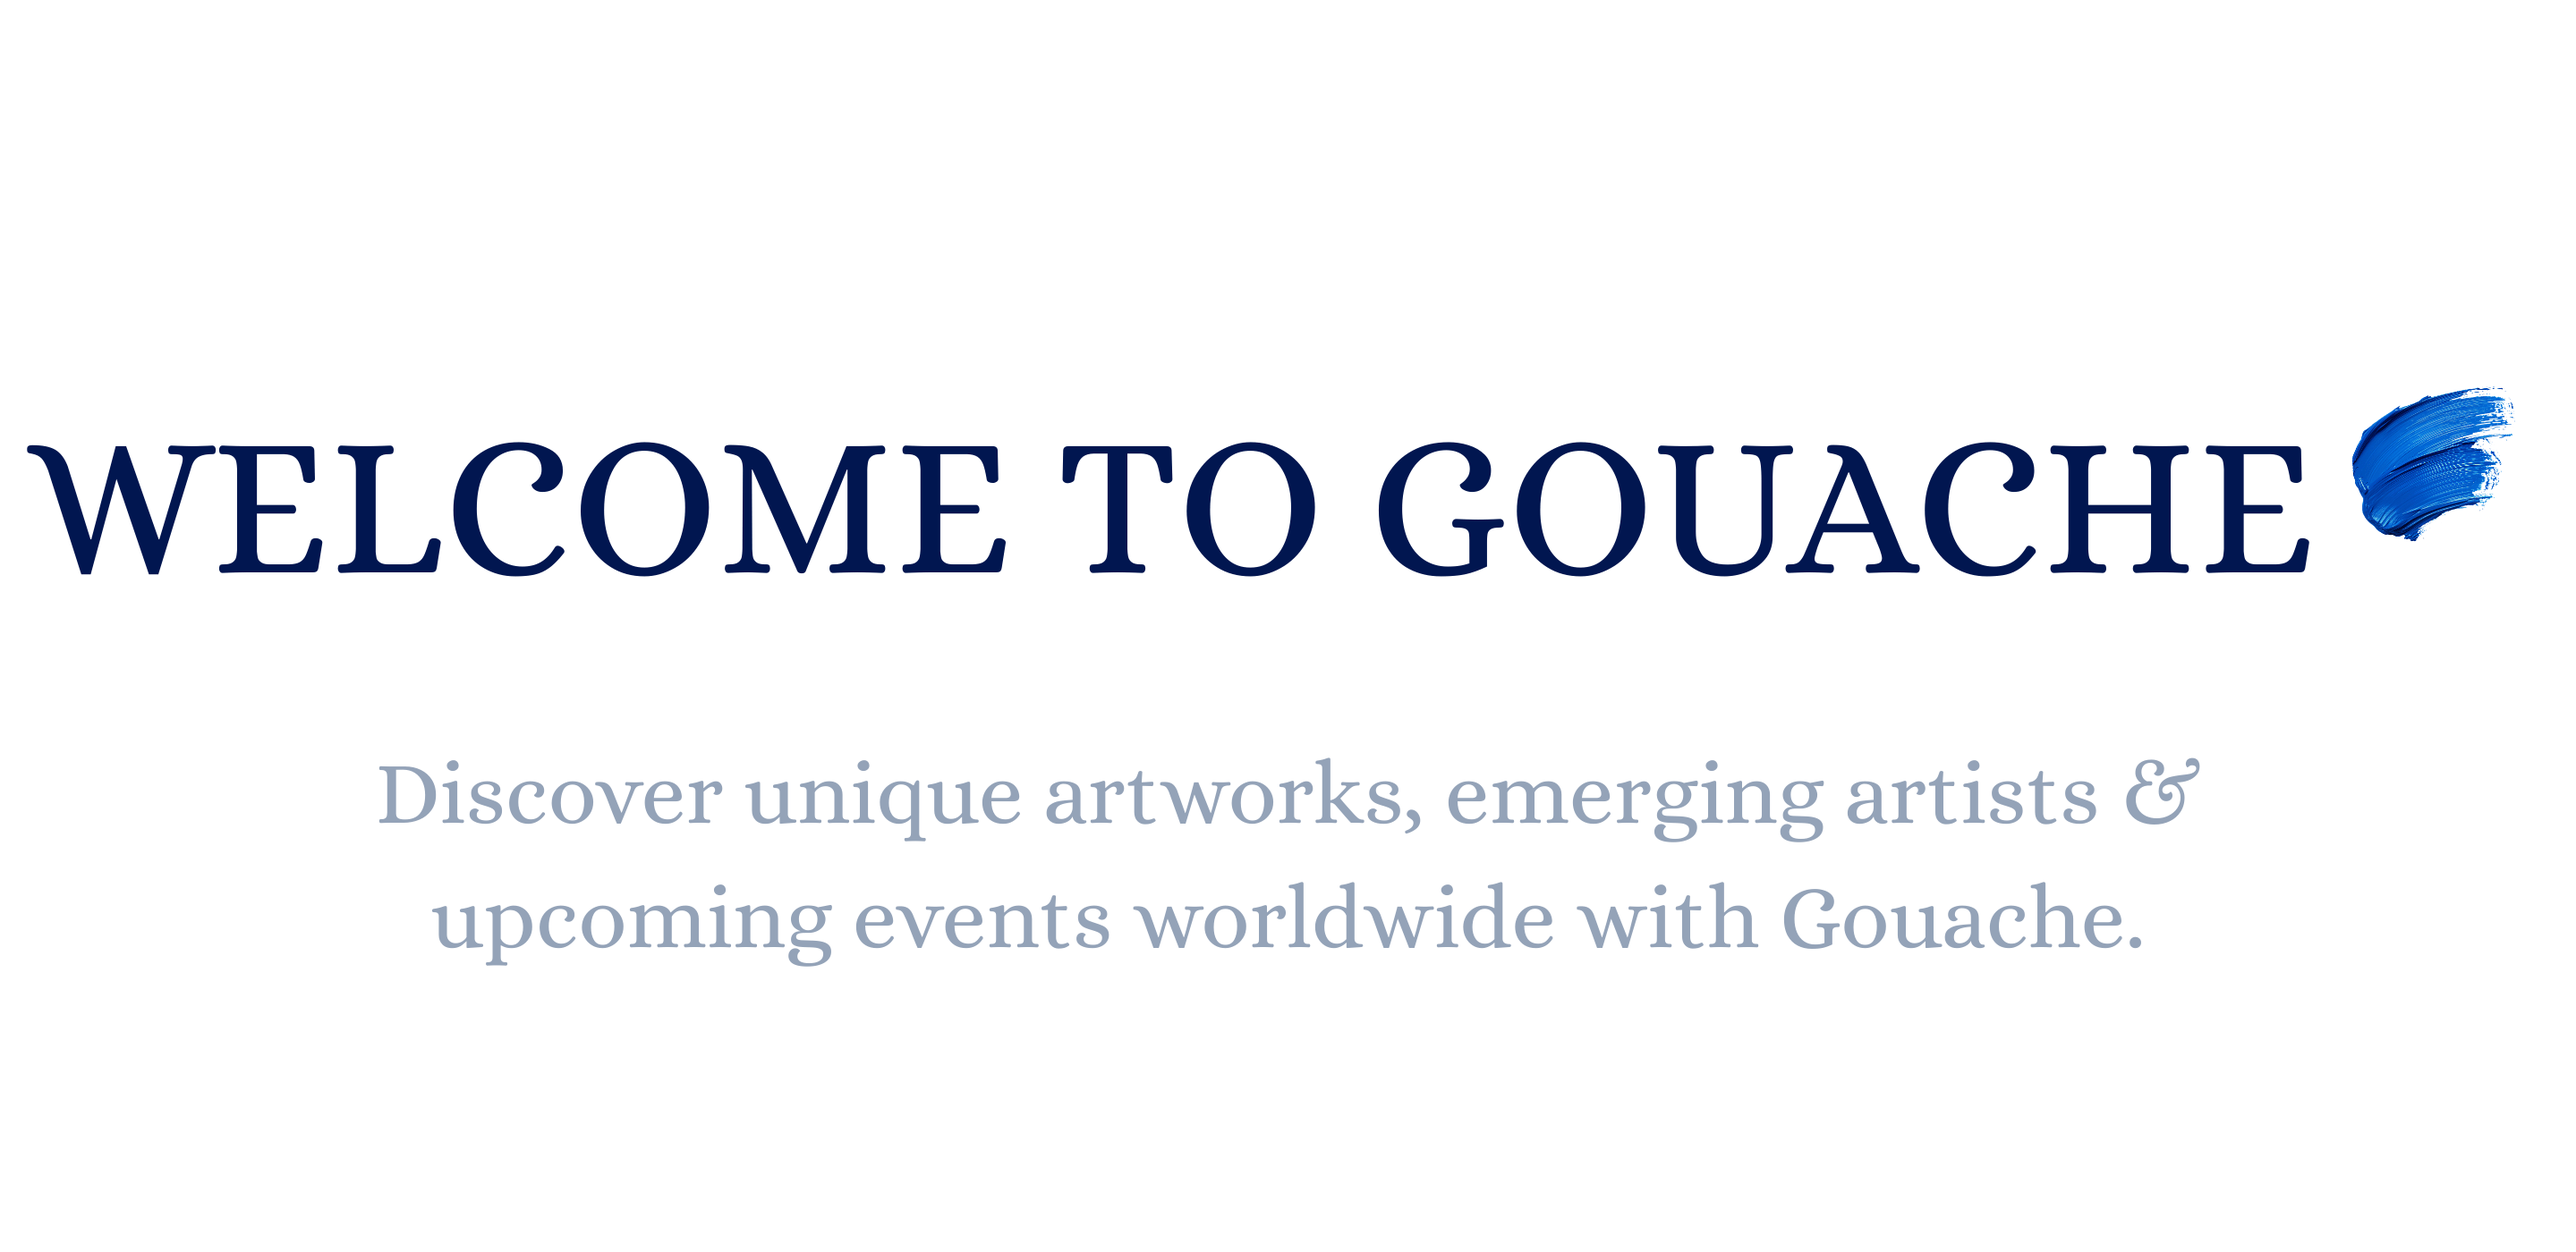
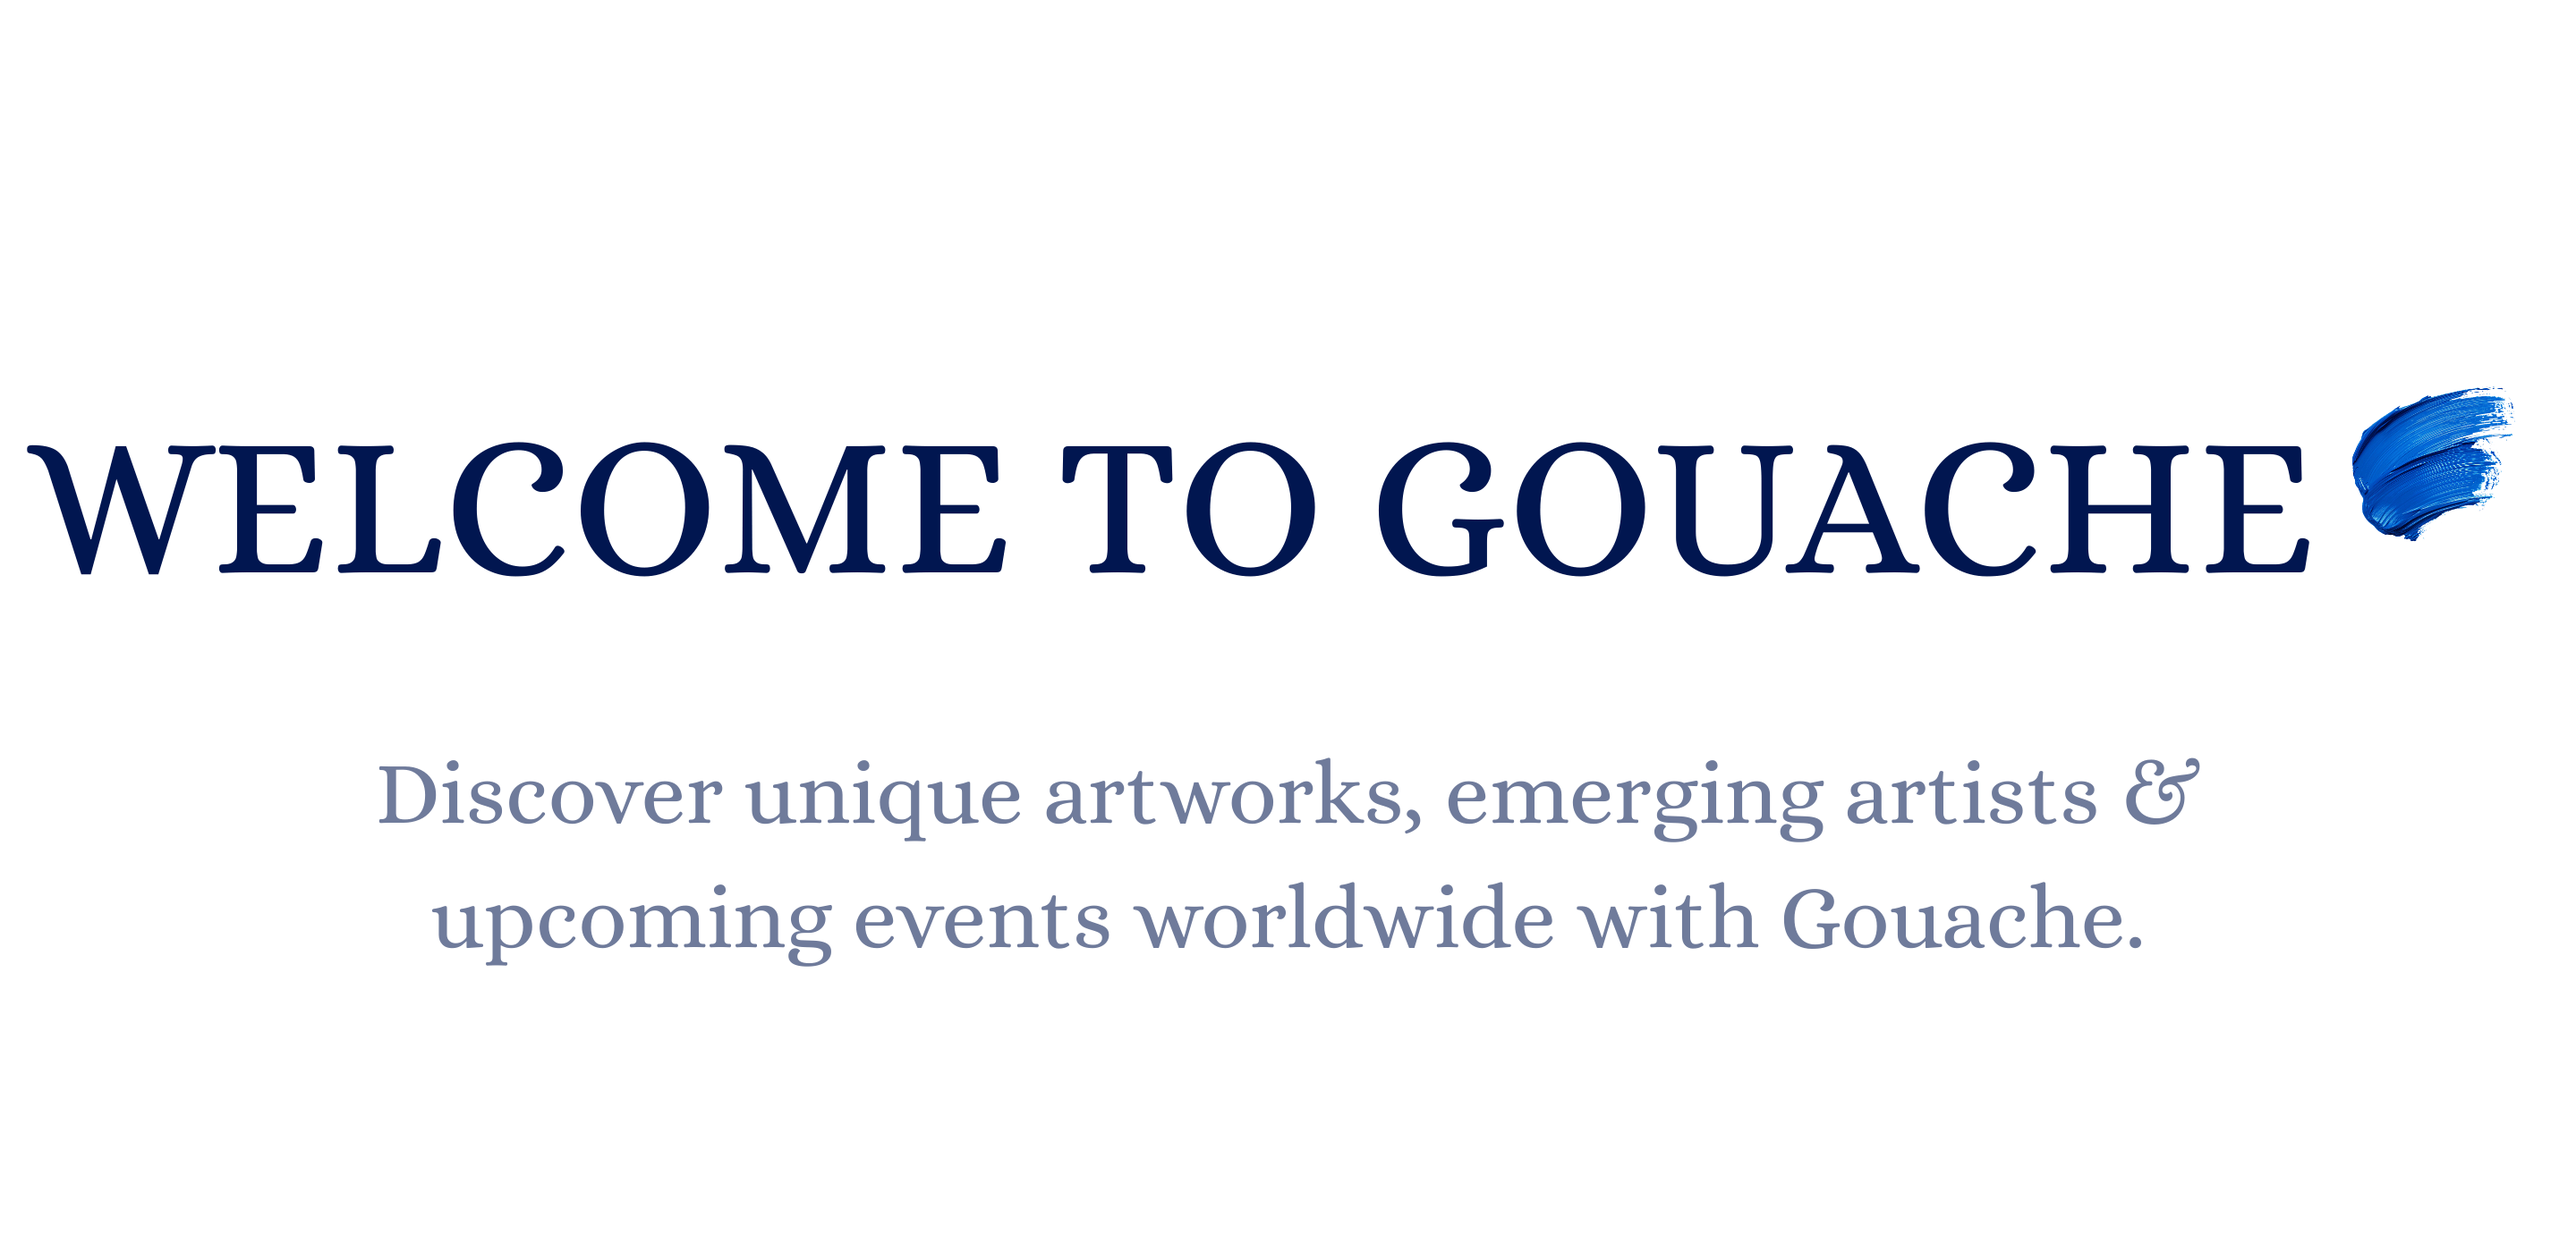
feat: Improve hero image font color readability for light theme
- Adjust font color on Gouache Hero Light.png for better readability
- Refactor artwork and product upload handlers to eliminate React errors
- Remove useEffect pattern causing infinite loops
- Use direct setTimeout approach in async handlers

Changed region(s): [[0.1237, 0.6143, 0.8656, 0.6757], [0.1546, 0.7064, 0.8347, 0.7679]]

diff --git a/src/app/(main)/upload/page.tsx b/src/app/(main)/upload/page.tsx
@@ -1,6 +1,6 @@
 'use client';
 
-import React, { useState, useEffect, useRef, ChangeEvent, useLayoutEffect, useMemo, startTransition } from 'react';
+import React, { useState, useEffect, useRef, ChangeEvent, useLayoutEffect, useMemo } from 'react';
 import { useRouter } from 'next/navigation';
 import Link from 'next/link';
 import { useAuth } from '@/providers/auth-provider';
@@ -53,10 +53,6 @@ export default function UploadPage() {
   });
   const [productImages, setProductImages] = useState<File[]>([]);
   const [isSubmittingProduct, setIsSubmittingProduct] = useState(false);
-  const [productUploadSuccess, setProductUploadSuccess] = useState(false);
-  const [productUploadError, setProductUploadError] = useState<string | null>(null);
-  const productSuccessProcessedRef = useRef(false);
-  const productErrorProcessedRef = useRef(false);
 
   // Listen for approved artist request as fallback when isProfessional flag is missing
   useEffect(() => {
@@ -75,68 +71,6 @@ export default function UploadPage() {
     return () => unsub();
   }, [user?.id]);
 
-  // Reset refs when flags are cleared
-  useEffect(() => {
-    if (!productUploadSuccess) {
-      productSuccessProcessedRef.current = false;
-    }
-  }, [productUploadSuccess]);
-
-  useEffect(() => {
-    if (!productUploadError) {
-      productErrorProcessedRef.current = false;
-    }
-  }, [productUploadError]);
-
-  // Handle product upload success side effects separately from render cycle
-  useEffect(() => {
-    if (productUploadSuccess && !productSuccessProcessedRef.current) {
-      productSuccessProcessedRef.current = true;
-      // Defer all side effects to next tick
-      setTimeout(() => {
-        setIsSubmittingProduct(false);
-        toast({
-          title: 'Product created',
-          description: 'Your product has been created and will appear in your shop.',
-        });
-
-        // Reset form and navigation after additional delay
-        setTimeout(() => {
-          setProductForm({
-            title: '',
-            description: '',
-            price: '',
-            originalPrice: '',
-            category: 'art-prints',
-            subcategory: 'fine-art-prints',
-            stock: '1',
-            tags: [],
-            newTag: '',
-          });
-          setProductImages([]);
-          setSelectedType(null);
-          setProductUploadSuccess(false);
-        }, 200);
-      }, 0);
-    }
-  }, [productUploadSuccess]);
-
-  // Handle product upload error side effects separately from render cycle
-  useEffect(() => {
-    if (productUploadError && !productErrorProcessedRef.current) {
-      productErrorProcessedRef.current = true;
-      // Defer all side effects to next tick
-      setTimeout(() => {
-        setIsSubmittingProduct(false);
-        toast({
-          title: 'Product creation failed',
-          description: productUploadError,
-          variant: 'destructive',
-        });
-        setProductUploadError(null);
-      }, 0);
-    }
-  }, [productUploadError]);
 
   // Show loading animation while auth is loading
   // Simplified: just wait for loading to complete and user to be available
@@ -325,12 +259,44 @@ export default function UploadPage() {
 
       await addDoc(collection(db, 'marketplaceProducts'), productData);
 
-      // Set success flag - useEffect will handle all side effects
-      setProductUploadSuccess(true);
+      // Handle all side effects in a single deferred callback
+      // This completely avoids React render cycle conflicts
+      setTimeout(() => {
+        setIsSubmittingProduct(false);
+        toast({
+          title: 'Product created',
+          description: 'Your product has been created and will appear in your shop.',
+        });
+
+        // Reset form and navigation after a brief delay
+        setTimeout(() => {
+          setProductForm({
+            title: '',
+            description: '',
+            price: '',
+            originalPrice: '',
+            category: 'art-prints',
+            subcategory: 'fine-art-prints',
+            stock: '1',
+            tags: [],
+            newTag: '',
+          });
+          setProductImages([]);
+          setSelectedType(null);
+        }, 300);
+      }, 0);
     } catch (error) {
       console.error('Error creating product:', error);
-      // Set error flag - useEffect will handle all side effects
-      setProductUploadError('Please try again.');
+      
+      // Handle error side effects in deferred callback
+      setTimeout(() => {
+        setIsSubmittingProduct(false);
+        toast({
+          title: 'Product creation failed',
+          description: 'Please try again.',
+          variant: 'destructive',
+        });
+      }, 0);
     }
   };
 

diff --git a/src/components/upload-form.tsx b/src/components/upload-form.tsx
@@ -1,6 +1,6 @@
 'use client';
 
-import React, { useState, useEffect, useRef } from 'react';
+import React, { useState, useEffect } from 'react';
 import { Card, CardContent, CardDescription, CardHeader, CardTitle } from '@/components/ui/card';
 import { Button } from '@/components/ui/button';
 import { Input } from '@/components/ui/input';
@@ -108,10 +108,6 @@ export function UploadForm({ initialFormData, titleText, descriptionText }: Uplo
   const [previews, setPreviews] = useState<string[]>([]);
   const [currentPreviewIndex, setCurrentPreviewIndex] = useState(0);
   const [loading, setLoading] = useState(false);
-  const [uploadSuccess, setUploadSuccess] = useState(false);
-  const [uploadError, setUploadError] = useState<string | null>(null);
-  const uploadSuccessProcessedRef = useRef(false);
-  const uploadErrorProcessedRef = useRef(false);
   const [agreedToTerms, setAgreedToTerms] = useState(false);
   const [tagInput, setTagInput] = useState('');
   const [tagsList, setTagsList] = useState<string[]>(
@@ -129,58 +125,6 @@ export function UploadForm({ initialFormData, titleText, descriptionText }: Uplo
   );
   const [countrySearch, setCountrySearch] = useState('');
 
-  // Reset refs when flags are cleared
-  useEffect(() => {
-    if (!uploadSuccess) {
-      uploadSuccessProcessedRef.current = false;
-    }
-  }, [uploadSuccess]);
-
-  useEffect(() => {
-    if (!uploadError) {
-      uploadErrorProcessedRef.current = false;
-    }
-  }, [uploadError]);
-
-  // Handle upload success/error side effects separately from render cycle
-  useEffect(() => {
-    if (uploadSuccess && !uploadSuccessProcessedRef.current) {
-      uploadSuccessProcessedRef.current = true;
-      // Defer all side effects to next tick
-      setTimeout(() => {
-        setLoading(false);
-        toast({
-          title: "Upload complete",
-          description: isProductUpload 
-            ? "Your product was uploaded and added to your shop."
-            : "Your artwork was uploaded and added to your portfolio.",
-          variant: "default",
-        });
-        
-        // Reset flag and navigate after additional delay
-        setTimeout(() => {
-          router.push('/profile?tab=portfolio');
-          setUploadSuccess(false);
-        }, 200);
-      }, 0);
-    }
-  }, [uploadSuccess, isProductUpload]); // router is stable, no need in deps
-
-  useEffect(() => {
-    if (uploadError && !uploadErrorProcessedRef.current) {
-      uploadErrorProcessedRef.current = true;
-      // Defer all side effects to next tick
-      setTimeout(() => {
-        setLoading(false);
-        toast({
-          title: "Upload failed",
-          description: uploadError,
-          variant: "destructive",
-        });
-        setUploadError(null);
-      }, 0);
-    }
-  }, [uploadError]);
 
   const handleFileChange = (e: React.ChangeEvent<HTMLInputElement>) => {
     const selectedFiles = Array.from(e.target.files || []);
@@ -382,14 +326,41 @@ export function UploadForm({ initialFormData, titleText, descriptionText }: Uplo
       });
       console.log('✅ UploadForm: Added to user portfolio');
 
-      // Set success flag - useEffect will handle all side effects
-      setUploadSuccess(true);
+      // Handle all side effects in a single deferred callback
+      // This completely avoids React render cycle conflicts
+      const successMessage = isProductUpload 
+        ? "Your product was uploaded and added to your shop."
+        : "Your artwork was uploaded and added to your portfolio.";
+      
+      // Use setTimeout to defer ALL side effects to next event loop tick
+      setTimeout(() => {
+        setLoading(false);
+        toast({
+          title: "Upload complete",
+          description: successMessage,
+          variant: "default",
+        });
+        
+        // Navigate after a brief delay
+        setTimeout(() => {
+          router.push('/profile?tab=portfolio');
+        }, 300);
+      }, 0);
     } catch (error) {
       console.error('❌ UploadForm: Error uploading artwork:', error);
-      // Set error flag - useEffect will handle all side effects
-      setUploadError(isProductUpload
+      const errorMessage = isProductUpload
         ? "We couldn't save your product. Please try again."
-        : "We couldn't save your artwork. Please try again.");
+        : "We couldn't save your artwork. Please try again.";
+      
+      // Handle error side effects in deferred callback
+      setTimeout(() => {
+        setLoading(false);
+        toast({
+          title: "Upload failed",
+          description: errorMessage,
+          variant: "destructive",
+        });
+      }, 0);
     }
   };
 
